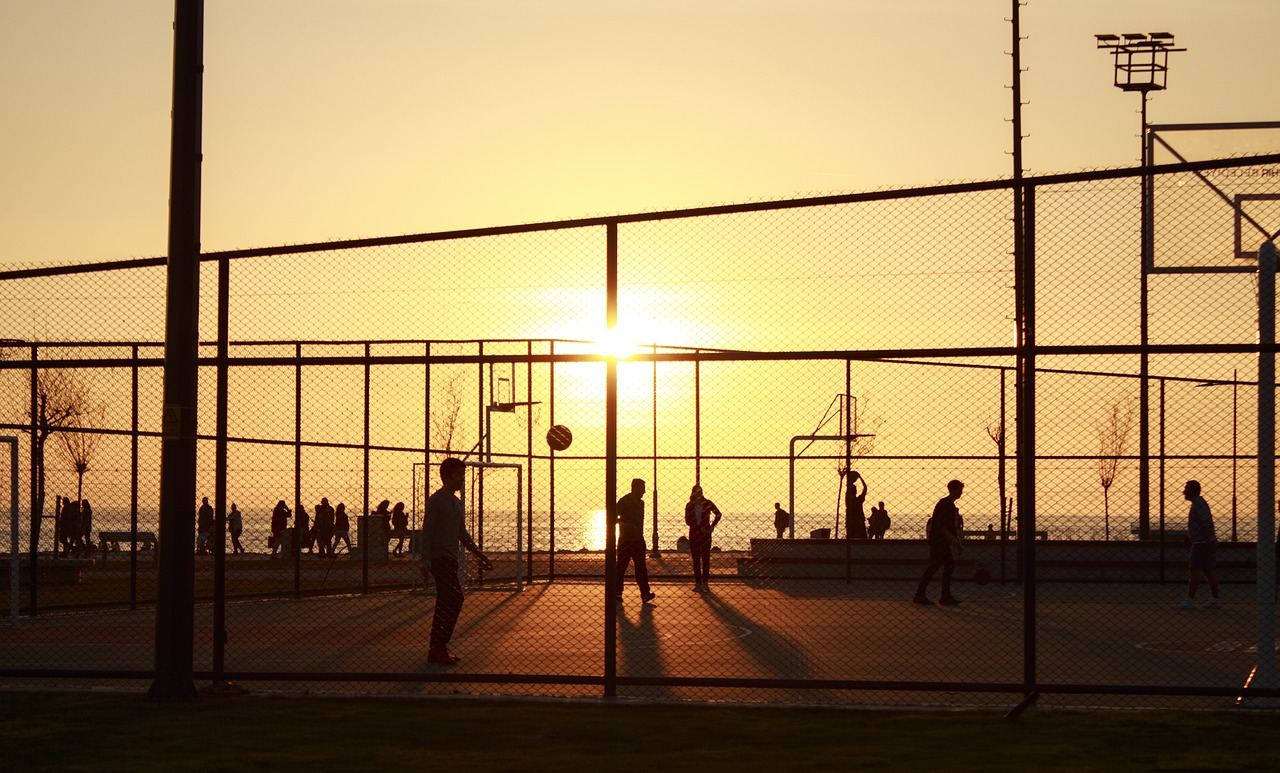
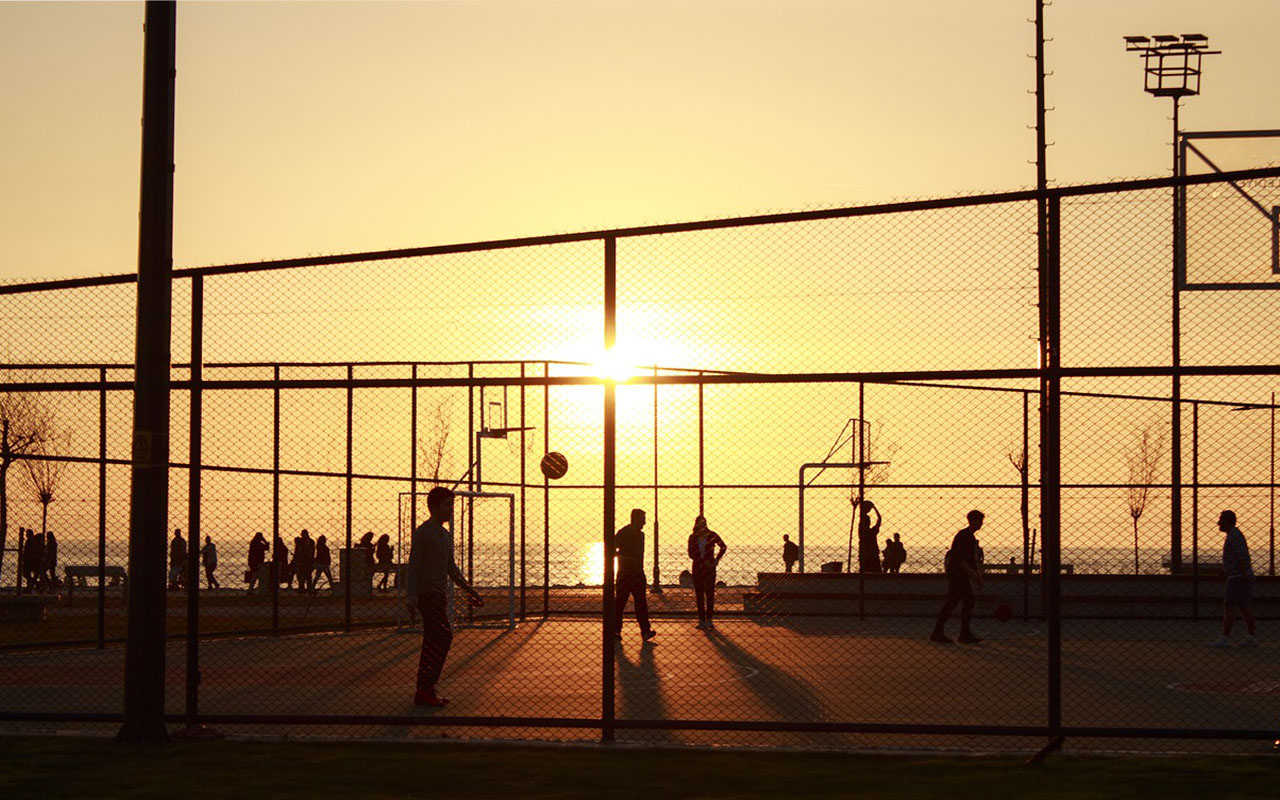
Überarbeitung Bilder
Bilder Überarbeitung von Slideshows

diff --git a/sport.html b/sport.html
@@ -66,36 +66,36 @@
     <main>
 
         <!-- Carousel -->
-        <div id="demo" class="carousel slide" data-bs-ride="carousel" style="padding-bottom: 10px;">
+    <div id="demo" class="carousel slide" data-bs-ride="carousel">
 
-            <!-- Indicators/dots -->
-            <div class="carousel-indicators">
-                <button type="button" data-bs-target="#demo" data-bs-slide-to="0" class="active"></button>
-                <button type="button" data-bs-target="#demo" data-bs-slide-to="1"></button>
-                <button type="button" data-bs-target="#demo" data-bs-slide-to="2"></button>
-            </div>
-
-            <!-- The slideshow/carousel -->
-            <div class="carousel-inner">
-                <div class="carousel-item">
-                    <img src="images/volleyball.jpg" alt="Volleyball" class="d-block" style="width:100%">
-                </div>
-                <div class="carousel-item active">
-                    <img src="images/volleyball1.jpg" alt="Volleyball" class="d-block" style="width:100%">
-                </div>
-                <div class="carousel-item active">
-                    <img src="images/volleyball2.jpg" alt="Volleyball" class="d-block" style="width:100%">
-                </div>
-            </div>
-
-            <!-- Left and right controls/icons -->
-            <button class="carousel-control-prev" type="button" data-bs-target="#demo" data-bs-slide="prev">
-                <span class="carousel-control-prev-icon"></span>
-            </button>
-            <button class="carousel-control-next" type="button" data-bs-target="#demo" data-bs-slide="next">
-                <span class="carousel-control-next-icon"></span>
-            </button>
+        <!-- Indicators/dots -->
+        <div class="carousel-indicators">
+            <button type="button" data-bs-target="#demo" data-bs-slide-to="0" class="active"></button>
+            <button type="button" data-bs-target="#demo" data-bs-slide-to="1"></button>
+            <button type="button" data-bs-target="#demo" data-bs-slide-to="2"></button>
         </div>
+
+        <!-- The slideshow/carousel -->
+        <div class="carousel-inner">
+            <div class="carousel-item active">
+                <img src="images/basketball.jpg" alt="Seite 1" class="d-block" style="width:100%">
+            </div>
+            <div class="carousel-item">
+                <img src="images/volleyball1.jpg" alt="Seite 2" class="d-block" style="width:100%">
+            </div>
+            <div class="carousel-item">
+                <img src="images/surfen.jpg" alt="Seite 3" class="d-block" style="width:100%">
+            </div>
+        </div>
+
+        <!-- Left and right controls/icons -->
+        <button class="carousel-control-prev" type="button" data-bs-target="#demo" data-bs-slide="prev">
+            <span class="carousel-control-prev-icon"></span>
+        </button>
+        <button class="carousel-control-next" type="button" data-bs-target="#demo" data-bs-slide="next">
+            <span class="carousel-control-next-icon"></span>
+        </button>
+    </div>
 
 
         <h1 class="zimmer" style="color: white" id="land">Landsportarten</h1>

diff --git a/hauptseite.html b/hauptseite.html
@@ -63,7 +63,7 @@
     </header>
     <main>
         <!-- Carousel -->
-        <div id="demo" class="carousel slide" data-bs-ride="carousel" style="padding-bottom: 10px;">
+        <div id="demo" class="carousel slide" data-bs-ride="carousel">
 
             <!-- Indicators/dots -->
             <div class="carousel-indicators">
@@ -75,13 +75,13 @@
             <!-- The slideshow/carousel -->
             <div class="carousel-inner">
                 <div class="carousel-item active">
-                    <img src="images/aussen.jpg" alt="aussen" class="d-block" style="width:100%">
+                    <img src="images/aussen.jpg" alt="Seite 1" class="d-block" style="width:100%">
                 </div>
-                <div class="carousel-item active">
-                    <img src="images/apartment.jpg" alt="Apartment" class="d-block" style="width:100%">
+                <div class="carousel-item">
+                    <img src="images/tipi.jpg" alt="Seite 2" class="d-block" style="width:100%">
                 </div>
-                <div class="carousel-item active">
-                    <img src="images/tipi.jpg" alt="Tipi" class="d-block" style="width:100%">
+                <div class="carousel-item">
+                    <img src="images/apartment.jpg" alt="Seite 3" class="d-block" style="width:100%">
                 </div>
             </div>
 
@@ -94,7 +94,7 @@
             </button>
         </div>
 
-        <div class="hintergrund mb-3">
+        <div class="hintergrund mb-3 mt-3">
             <h2 class="ueberschriftHintergrund text-center" id="info">Informationen über das Retreat</h2>
 
 

diff --git a/wellness.html b/wellness.html
@@ -66,7 +66,7 @@
     </header>
 
     <!-- Carousel -->
-    <div id="demo" class="carousel slide" data-bs-ride="carousel" style="padding-bottom: 10px;">
+    <div id="demo" class="carousel slide" data-bs-ride="carousel">
 
         <!-- Indicators/dots -->
         <div class="carousel-indicators">
@@ -77,14 +77,14 @@
 
         <!-- The slideshow/carousel -->
         <div class="carousel-inner">
+            <div class="carousel-item active">
+                <img src="images/massage1.jpg" alt="Seite 1" class="d-block" style="width:100%">
+            </div>
             <div class="carousel-item">
-                <img src="images/ganz.jpg" alt="Volleyball" class="d-block" style="width:100%">
+                <img src="images/massage.jpg" alt="Seite 2" class="d-block" style="width:100%">
             </div>
-            <div class="carousel-item active">
-                <img src="images/thai.jpg" alt="Volleyball" class="d-block" style="width:100%">
-            </div>
-            <div class="carousel-item active">
-                <img src="images/rücken.jpg" alt="Volleyball" class="d-block" style="width:100%">
+            <div class="carousel-item">
+                <img src="images/massage2.jpg" alt="Seite 3" class="d-block" style="width:100%">
             </div>
         </div>
 
@@ -96,6 +96,7 @@
             <span class="carousel-control-next-icon"></span>
         </button>
     </div>
+
     <main class="m-4">
         <div class="container p-2 hinterZimmer">
             <div class="row">

diff --git a/restaurant.html b/restaurant.html
@@ -87,9 +87,8 @@
                 <button type="button" data-bs-target="#demo" data-bs-slide-to="0" class="active"></button>
                 <button type="button" data-bs-target="#demo" data-bs-slide-to="1"></button>
                 <button type="button" data-bs-target="#demo" data-bs-slide-to="2"></button>
+                <button type="button" data-bs-target="#demo" data-bs-slide-to="3"></button>
                 <button type="button" data-bs-target="#demo" data-bs-slide-to="4"></button>
-                <button type="button" data-bs-target="#demo" data-bs-slide-to="5"></button>
-                <button type="button" data-bs-target="#demo" data-bs-slide-to="6"></button>
             </div>
 
             <!-- The slideshow/carousel -->
@@ -104,10 +103,10 @@
                     <img src="images/Folie3.JPG" alt="Seite 3" class="d-block" style="width:100%">
                 </div>
                 <div class="carousel-item">
-                    <img src="images/Folie4.jpg" alt="Seite 3" class="d-block" style="width:100%">
+                    <img src="images/Folie4.jpg" alt="Seite 4" class="d-block" style="width:100%">
                 </div>
                 <div class="carousel-item">
-                    <img src="images/Folie5.jpg" alt="Seite 3" class="d-block" style="width:100%">
+                    <img src="images/Folie5.jpg" alt="Seite 5" class="d-block" style="width:100%">
                 </div>
             </div>
 
